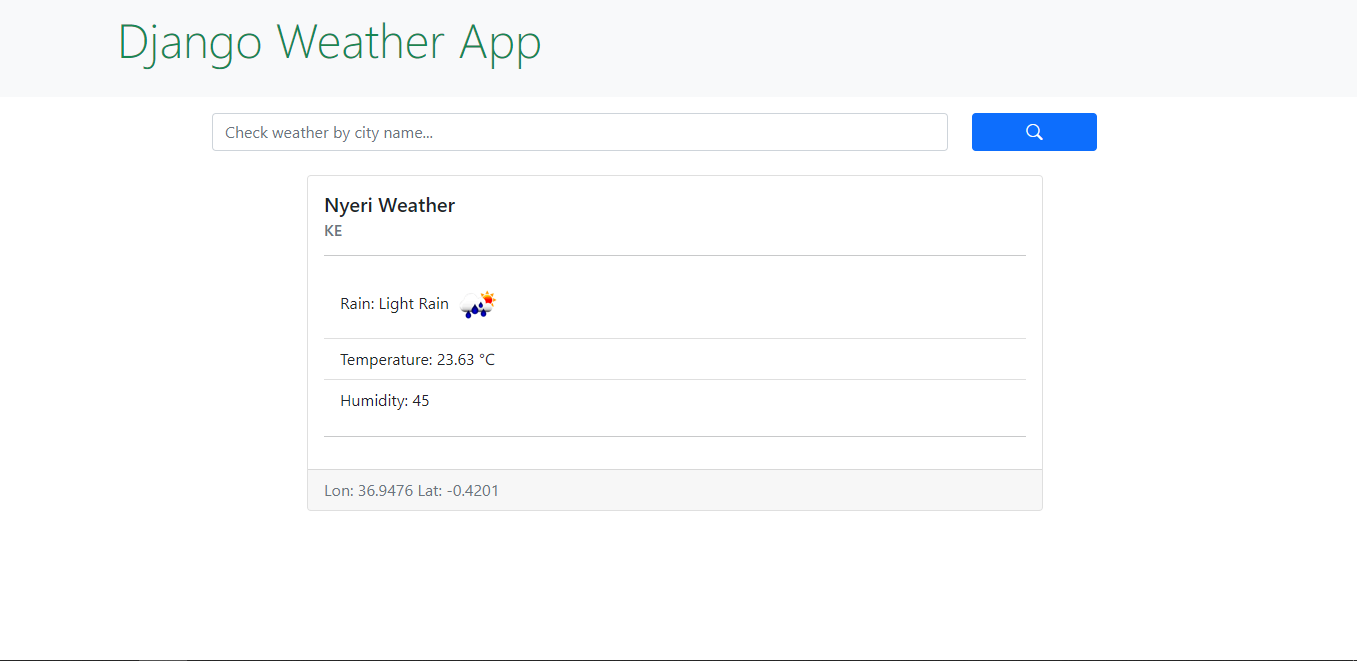
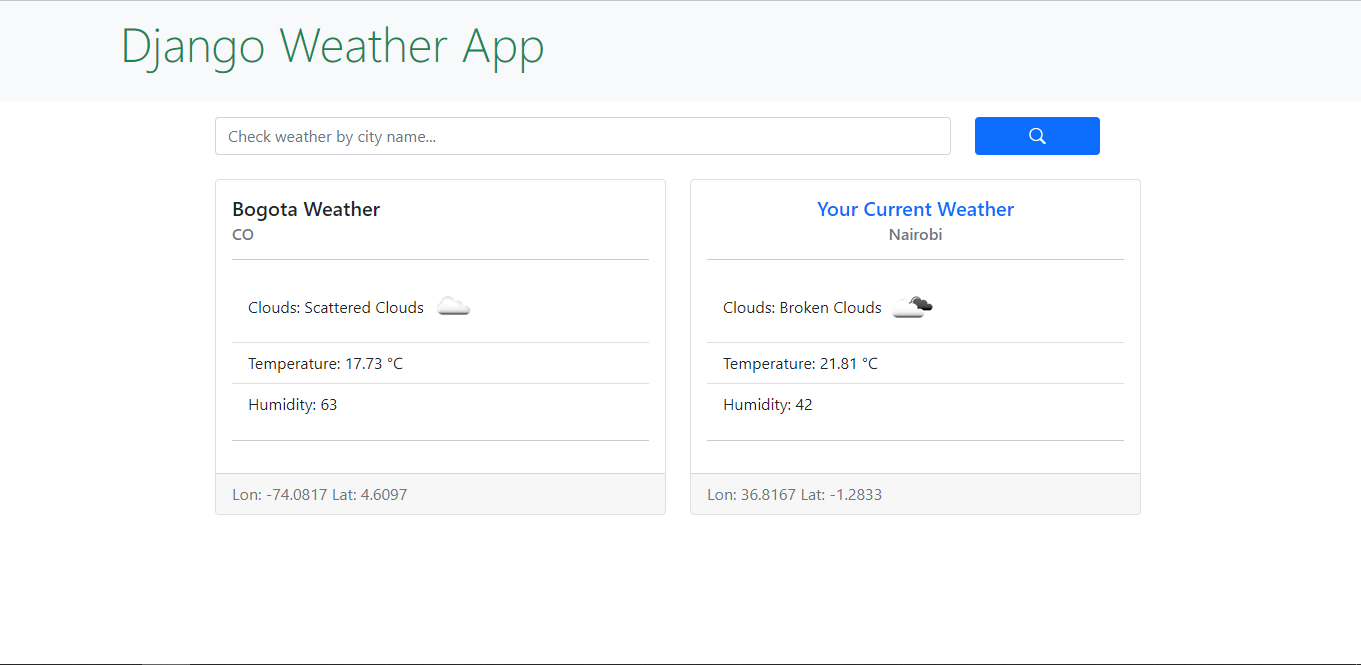
Added current user location weather

diff --git a/weather/templates/weather/index.html b/weather/templates/weather/index.html
@@ -31,7 +31,7 @@
         </div>
       </div>
       <div class="row justify-content-center mt-4">
-        <div class="col-md-8">
+        <div class="col-md-5">
           {% if weather %}
             <div class="card">
                 <div class="card-body">
@@ -55,6 +55,26 @@
         </div>
         {% endif %}
           
+      </div>
+      <div class="col-md-5">
+        <div class="card">
+          <div class="card-body">
+            <h5 class="card-title text-primary text-center">Your Current Weather</h5>
+            <h6 class="card-subtitle mb-2 text-muted text-center">{{current_city}}</h6>
+            <p class="card-text">
+              <hr>
+              <ul class="list-group list-group-flush">
+                <li class="list-group-item">{{c_weather|title}}: {{c_weather_description|title}} <img src="http://openweathermap.org/img/w/{{c_weather_icon}}.png" alt=""></li>
+                <li class="list-group-item">Temperature: {{c_temperature|floatformat:"2"}} &#x2103;</li>
+                <li class="list-group-item">Humidity: {{c_humidity}}</li>
+              </ul>
+              <hr>
+            </p>
+          </div>
+          <div class="card-footer text-muted">
+           {{c_coordinates}}
+        </div>
+  </div>
       </div>
     </div>
 

diff --git a/weather/context.py b/weather/context.py
@@ -1,0 +1,36 @@
+import requests as r
+from django.conf import settings
+from django.http import HttpResponse
+
+
+def default_weather(request):
+    """
+       Shows the weather of the user based on their 
+       public ip info
+    """
+    ipinfo = r.get('http://ipinfo.io/json').json()
+    city = ipinfo['city']
+    country = ipinfo['country']
+    latitude = ipinfo['loc'].split(',')[0]
+    longitude = ipinfo['loc'].split(',')[1]
+    request_ = r.get(
+        f"https://api.openweathermap.org/data/2.5/weather?q={city}&appid={settings.API_KEY}")
+
+    if request_.status_code == 200:
+        response = request_.json()
+        data = {
+            'current_city': city,
+            "c_country": str(country),
+            "c_coordinates": str(f" Lon: {longitude} Lat: {latitude}"),
+            "c_temperature": str(response['main']['temp'] - 273.15),
+            "c_pressure": str(response['main']['pressure']),
+            "c_humidity": str(response['main']['humidity']),
+            "c_weather": str(response['weather'][0]['main']),
+            "c_weather_description": str(response['weather'][0]['description']),
+            'c_weather_icon': str(response['weather'][0]['icon'])
+
+        }
+    else:
+        return HttpResponse("Error: An error occured! Check that you searched the correct city.")
+
+    return data

diff --git a/django_weather_app/settings.py b/django_weather_app/settings.py
@@ -39,7 +39,7 @@ INSTALLED_APPS = [
     'django.contrib.staticfiles',
     'weather.apps.WeatherConfig',
 ]
-API_KEY = "XXXXXX"
+API_KEY = "c89186416856e99d81b834d2bcadc1d3"
 
 MIDDLEWARE = [
     'django.middleware.security.SecurityMiddleware',
@@ -64,6 +64,7 @@ TEMPLATES = [
                 'django.template.context_processors.request',
                 'django.contrib.auth.context_processors.auth',
                 'django.contrib.messages.context_processors.messages',
+                'weather.context.default_weather',
             ],
         },
     },
